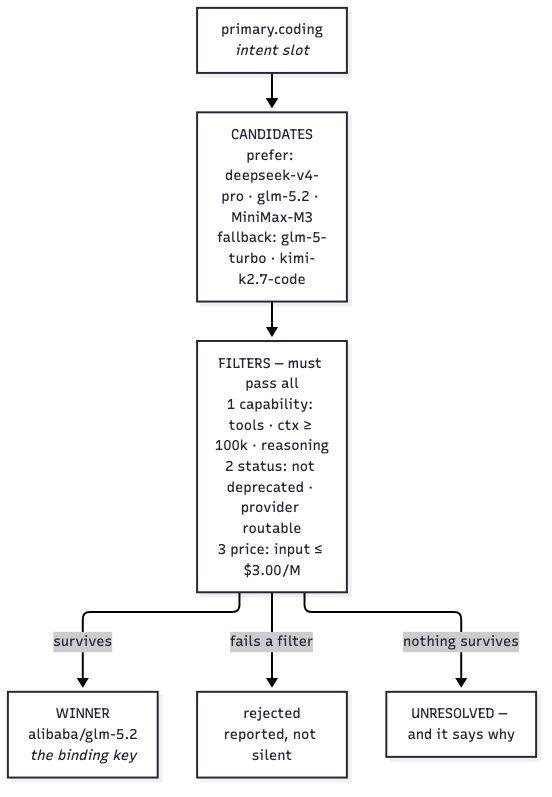
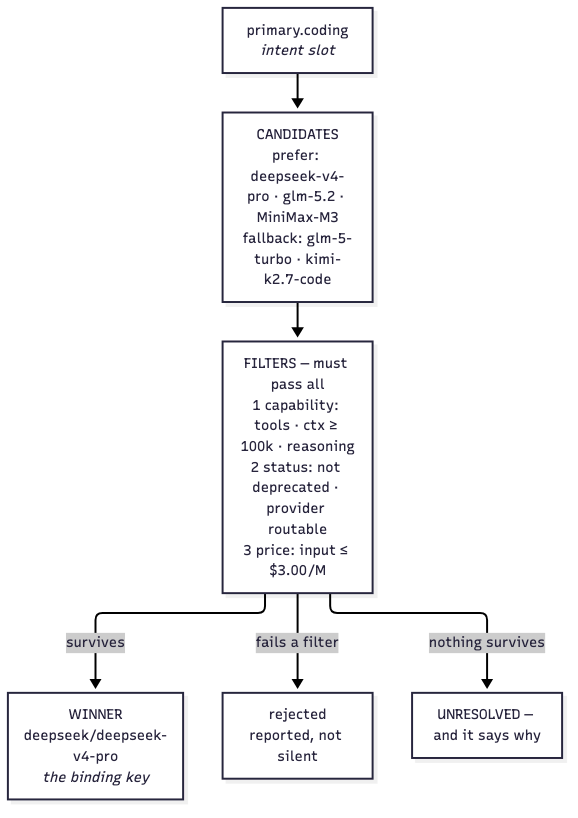
docs: correct the winner example to the real resolved binding
The diagrams and the resolve example showed alibaba/glm-5.2, which was the
result before the enabled/routable fix. The real output for
`upb registry resolve primary.coding` is deepseek/deepseek-v4-pro — the
resolver picks the best-ranked binding serving that canonical model, and
ollama-cloud's binding is skipped because deepseek's ranks higher on
provider priority.

Changed region(s): [[0.0, 0.0, 0.9855, 0.9937]]

diff --git a/docs/diagrams/generate.py b/docs/diagrams/generate.py
@@ -304,7 +304,7 @@ def slot_resolution():
     # 4. the winner
     c.shape(300, 650, 520, 140, GREEN,
             ["WINNER  —  first survivor", "",
-             "alibaba/glm-5.2", "the binding key — never a raw model id"], size=17)
+             "deepseek/deepseek-v4-pro", "the binding key — never a raw model id"], size=17)
     c.arrow(820, 720, 880, 720, color=STROKE_GREEN)
 
     # 5. the unresolved state

diff --git a/docs/REGISTRY.md b/docs/REGISTRY.md
@@ -111,7 +111,7 @@ graph TD
     S["primary.coding<br/><i>intent slot</i>"]
     C["CANDIDATES<br/>prefer: deepseek-v4-pro · glm-5.2 · MiniMax-M3<br/>fallback: glm-5-turbo · kimi-k2.7-code"]
     F["FILTERS — must pass all<br/>1 capability: tools · ctx ≥ 100k · reasoning<br/>2 status: not deprecated · provider routable<br/>3 price: input ≤ $3.00/M"]
-    W["WINNER<br/>alibaba/glm-5.2<br/><i>the binding key</i>"]
+    W["WINNER<br/>deepseek/deepseek-v4-pro<br/><i>the binding key</i>"]
     U["UNRESOLVED — and it says why"]
     R["rejected<br/>reported, not silent"]
 
@@ -135,13 +135,20 @@ model would be unroutable.
 ```console
 $ upb registry resolve primary.coding --json
 {
-  "binding": "alibaba/glm-5.2",
-  "canonical": "zhipuai/glm-5.2",
+  "binding": "deepseek/deepseek-v4-pro",
+  "canonical": "deepseek/deepseek-v4-pro-0813",
   "status": "active",
   "tier": "prefer",
-  "considered": ["alibaba/glm-5.2", "ollama-cloud/glm-5.2"]
+  "reference": "deepseek/deepseek-v4-pro",
+  "considered": ["deepseek/deepseek-v4-pro", "ollama-cloud/deepseek-v4-pro"]
 }
 ```
+
+Note what that output says: the slot named a *canonical* model, the resolver
+considered every provider serving it, and it handed back a **binding key** —
+provider plus the id that provider actually uses. `ollama-cloud` serves the
+same canonical model as `deepseek-v4-pro:0813`; the winner is whichever
+binding ranks best on status and provider priority.
 
 ## Where everything sits
 
